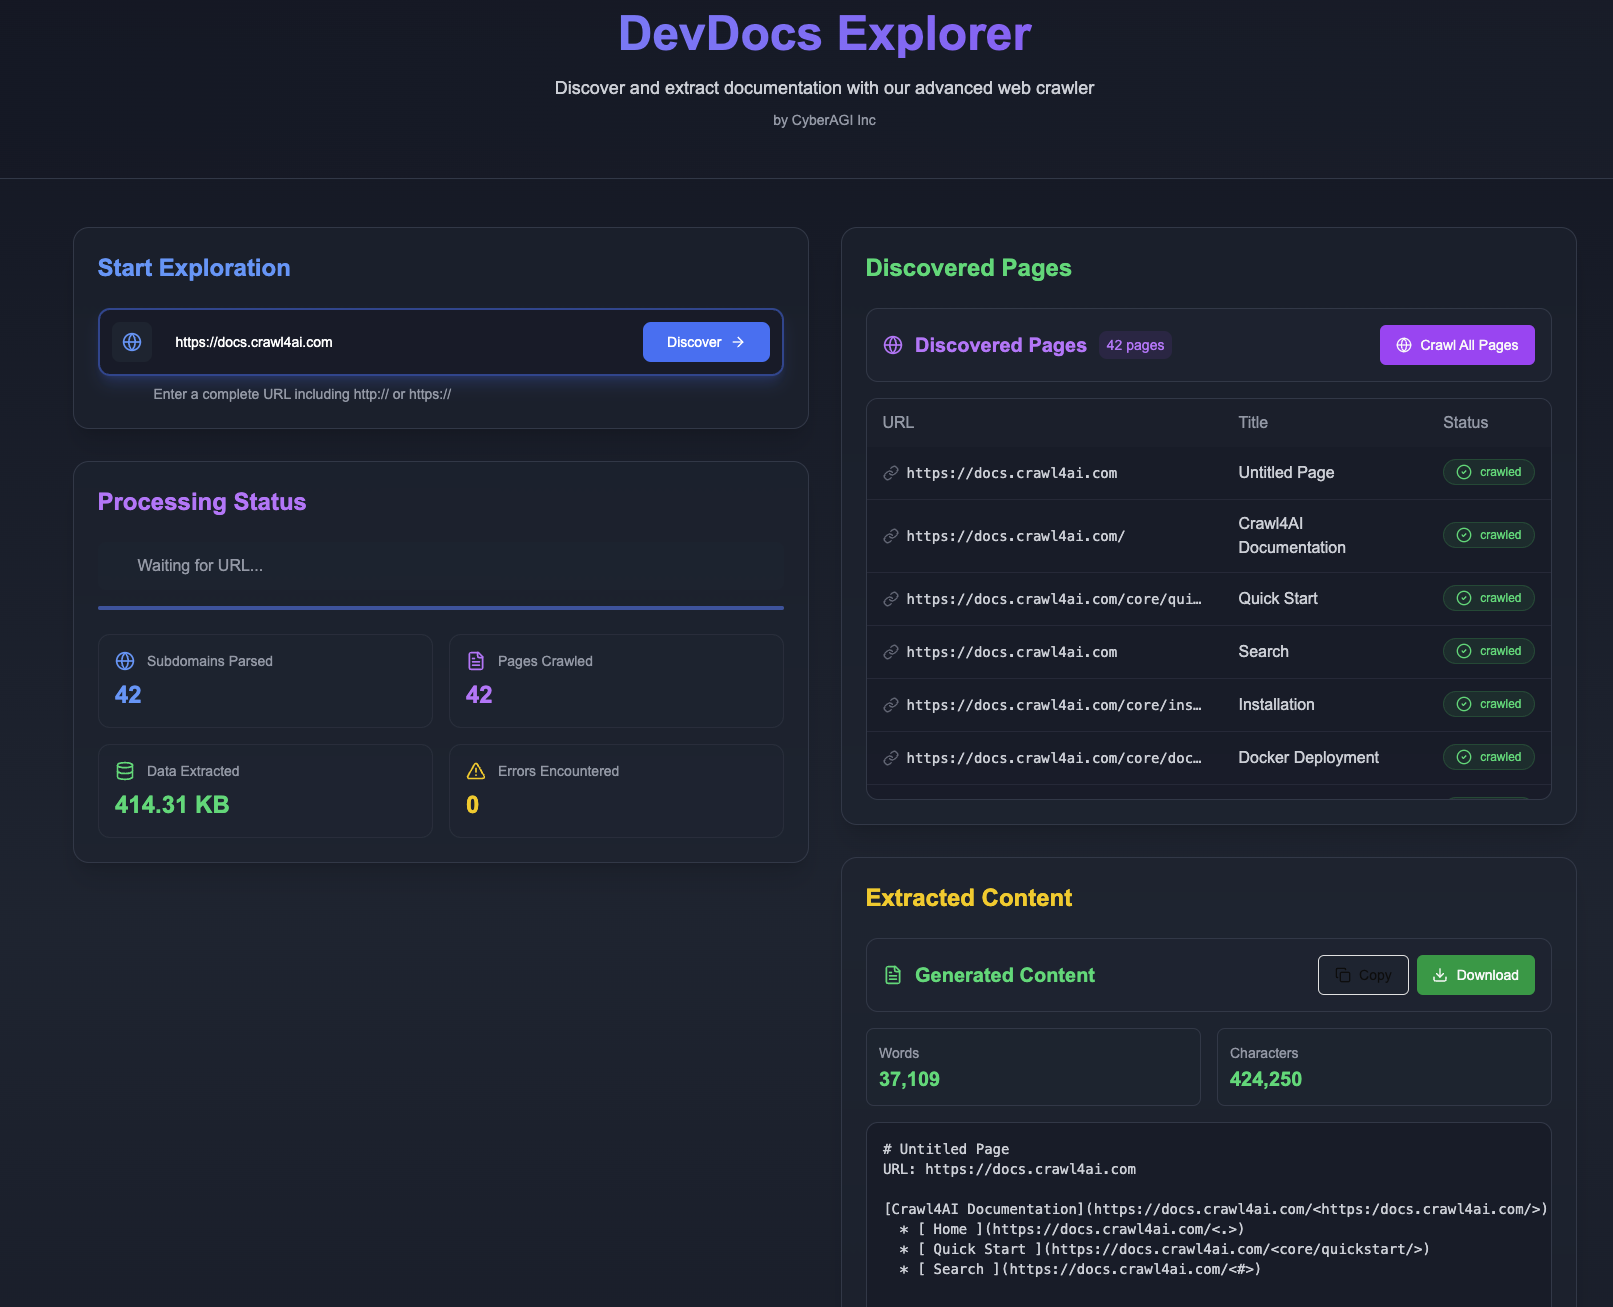
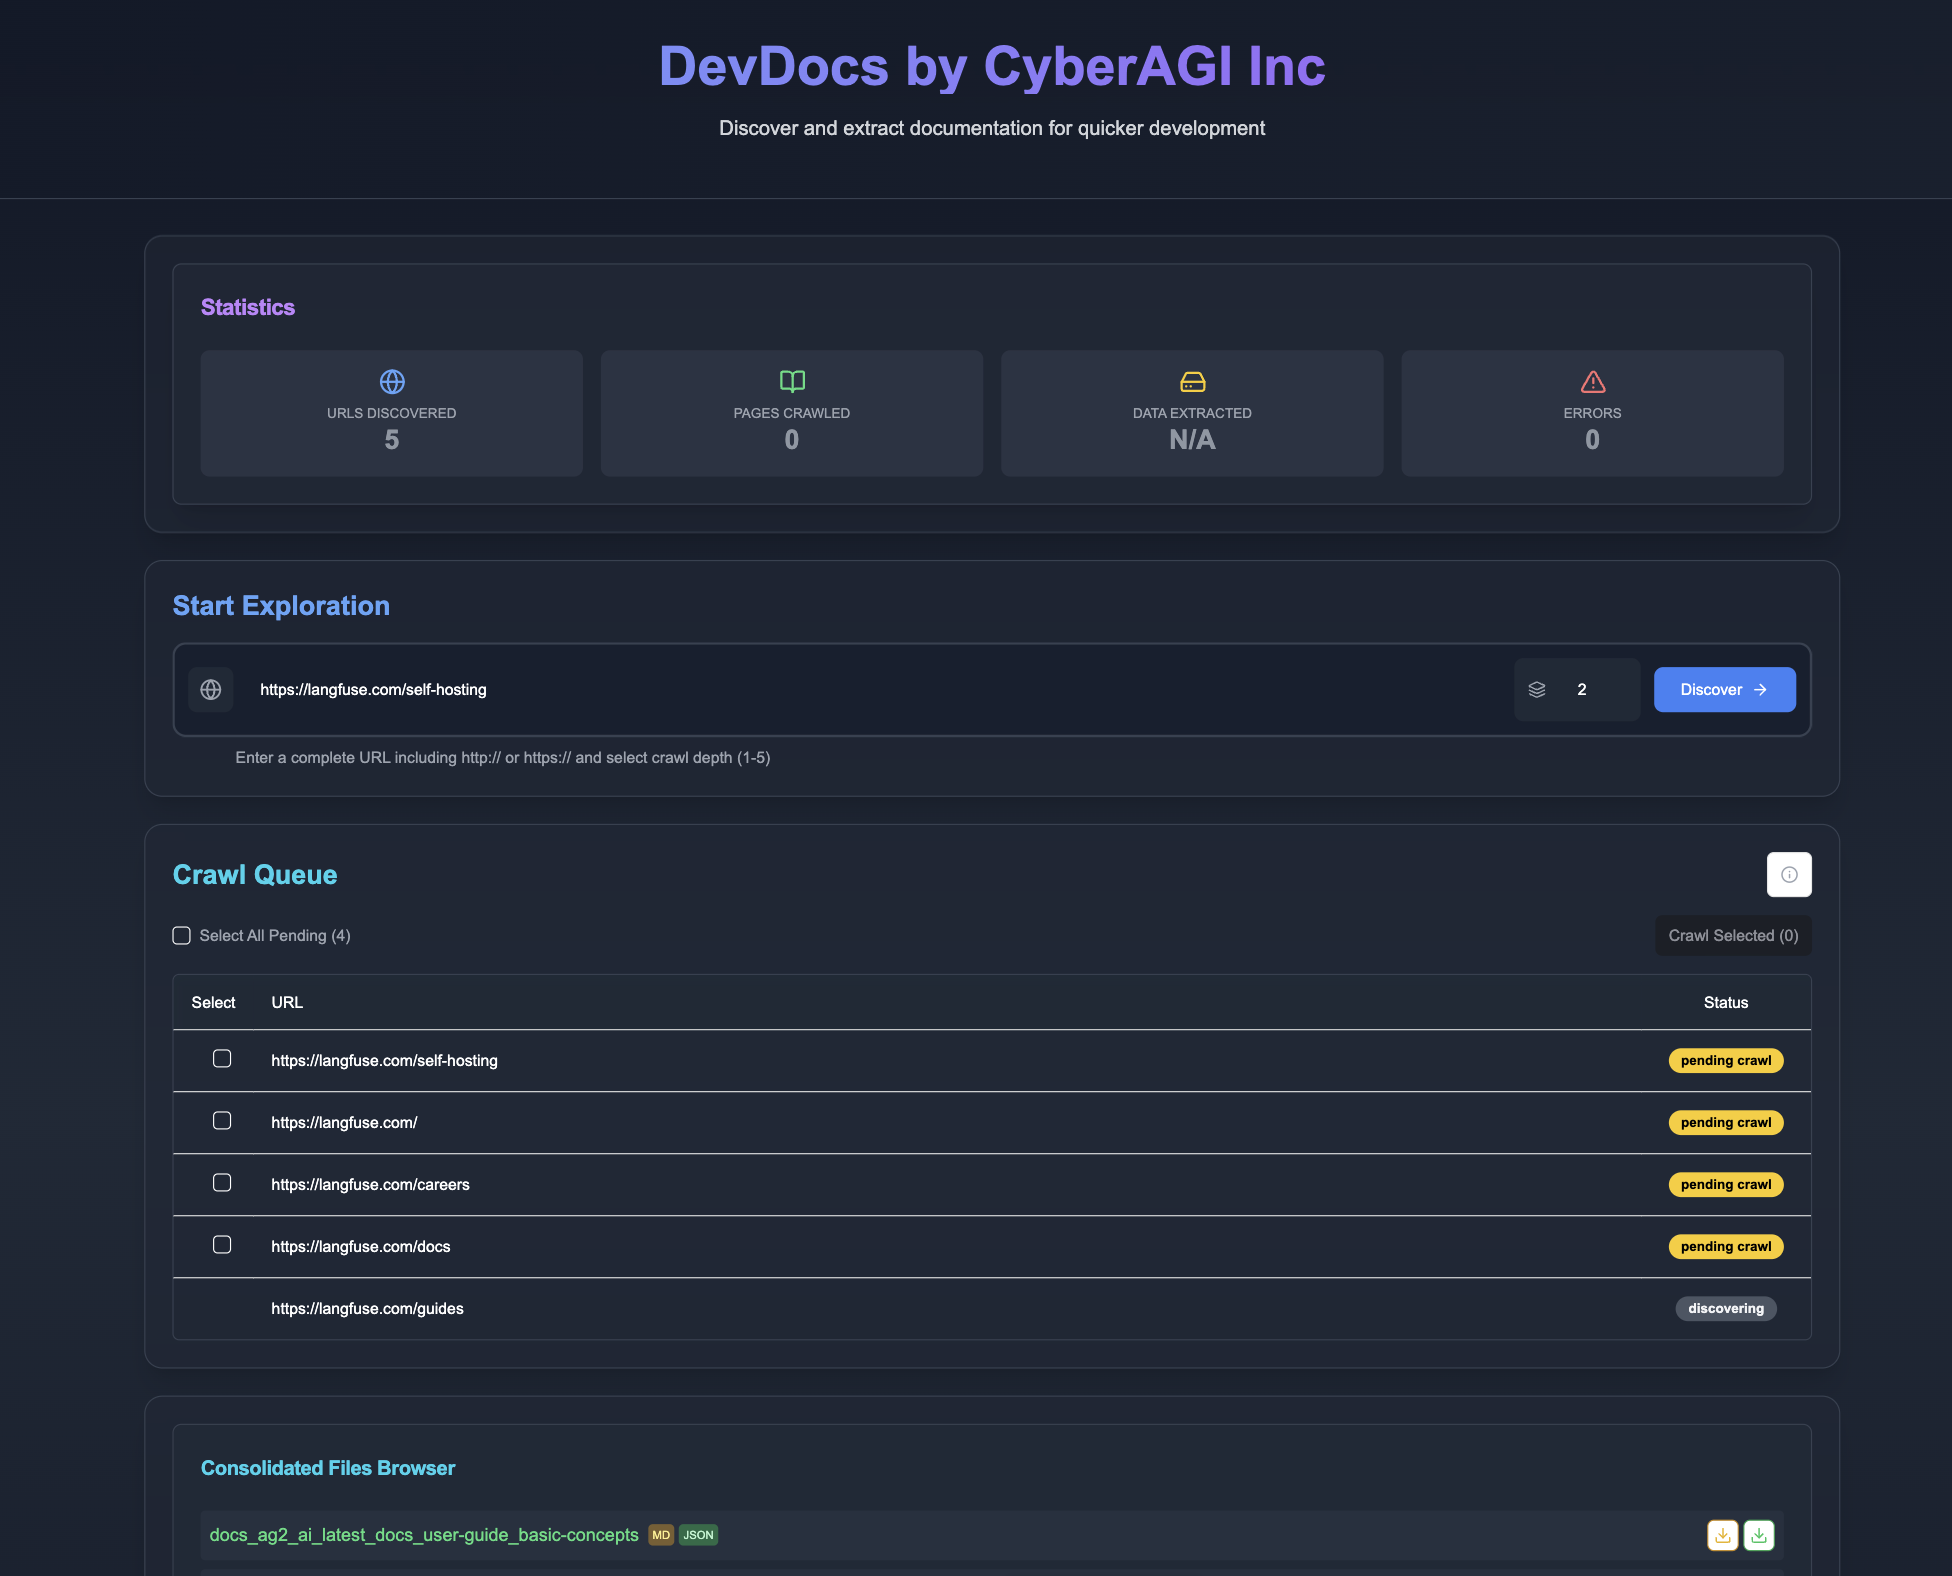
image change fix

diff --git a/README.md b/README.md
@@ -1,8 +1,8 @@
 # DevDocs by CyberAGI 🚀
 
 <div align="center">
-  <img src="https://github.com/user-attachments/assets/6d4cc4df-fe5d-4483-9218-3d621f572e49" alt="DevDocs Interface" width="800">
-  <img src="https://github.com/user-attachments/assets/00350dc6-2ff3-40cf-b0b3-8b3e387d983d" alt="DevDocs Interface" width="800">
+  <img src="assets/image.png" alt="DevDocs Interface" width="800">
+
 
   <p align="center">
     <strong>Turn Weeks of Documentation Research into Hours of Productive Development</strong>
@@ -95,7 +95,7 @@ DevDocs is designed to be easy to use with Docker, requiring minimal setup for n
 
 ### Prerequisites
 
-- [Docker](https://docs.docker.com/get-docker/) and [Docker Compose](https://docs.docker.com/compose/install/) installed on your system
+- [Docker](https://docs.docker.com/get-docker/) installed on your system
 - Git for cloning the repository
 
 ### Quick Start with Docker (Recommended)
@@ -107,9 +107,11 @@ git clone https://github.com/cyberagiinc/DevDocs.git
 
 # Navigate to the project directory
 cd DevDocs
+
 # Configure environment variables
 # Copy the template file to .env
 cp .env.template .env
+
 # Ensure NEXT_PUBLIC_BACKEND_URL in .env is set correctly (e.g., http://localhost:24125)
 # This allows the frontend (running in your browser) to communicate with the backend service.
 
@@ -124,11 +126,16 @@ For Windows users: Experimental Only (Not Tested Yet)
 git clone https://github.com/cyberagiinc/DevDocs.git
 
 # Navigate to the project directory
+
 cd DevDocs
+
 # Configure environment variables
 # Copy the template file to .env
+
 copy .env.template .env
+
 # Ensure NEXT_PUBLIC_BACKEND_URL in .env is set correctly (e.g., http://localhost:24125)
+
 # This allows the frontend (running in your browser) to communicate with the backend service.
 
 # Prerequisites: Install WSL 2 and Docker Desktop
